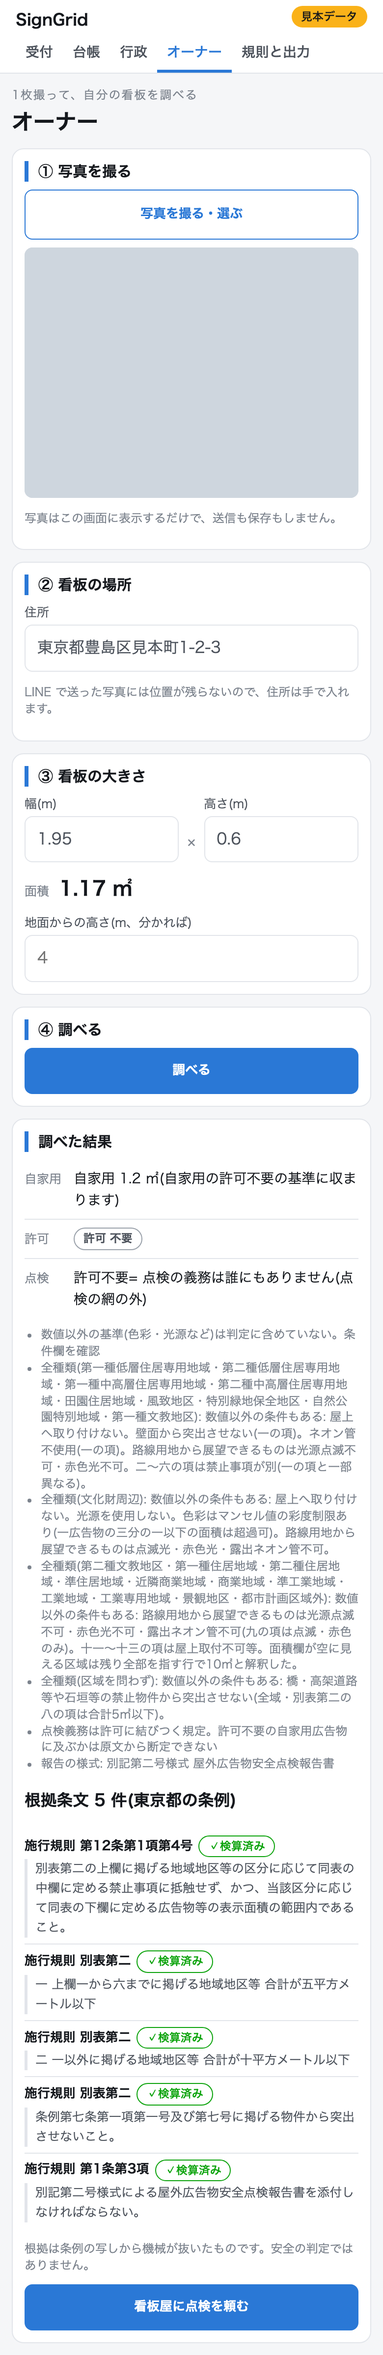
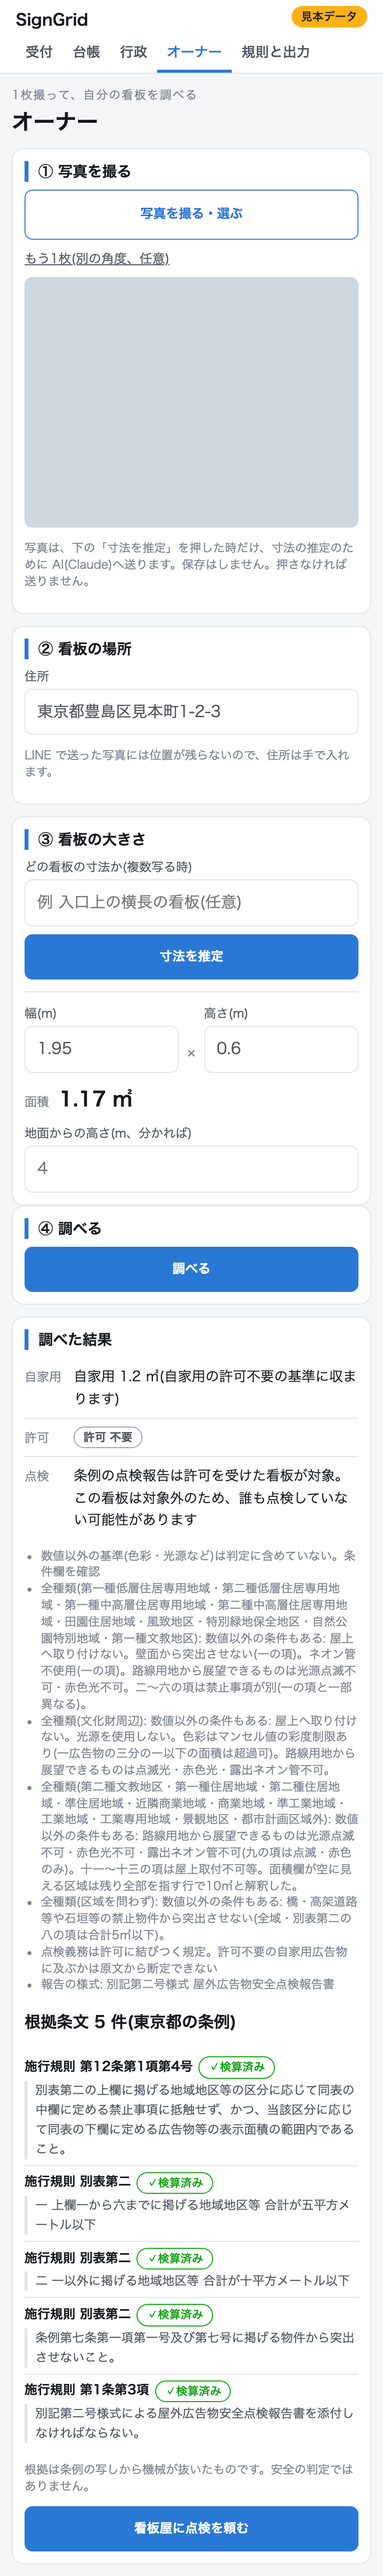
UI: owner screenshots after size estimate (sample fixed values, no API)

diff --git a/tools/web_screenshots.py b/tools/web_screenshots.py
@@ -3,7 +3,8 @@
   python3 tools/web_screenshots.py [--out docs/img] [--only ledger,karte,...]
 
 撮る画面: ledger(台帳)、karte(カルテ)、karte-legal(カルテの法規カード)、karte-edit(黄色のマスを直した後)、karte-confirmed(確定後)、
-rules(規則と出力)、intake(受付)、gov(行政。gov.make_sample の見本の束を入れる)、owner(オーナー。見本の寸法で「調べる」まで)。
+rules(規則と出力)、intake(受付)、gov(行政。gov.make_sample の見本の束を入れる)、owner(オーナー。見本の寸法で「調べる」まで)、
+owner-estimate(オーナーの「寸法を推定」後。推定役は固定値の見本で、API は呼ばない)。
 karte-edit 以降は台帳を書き換えるので、一時の台帳でだけ行う(見本の JSON は変わらない)。
 """
 from __future__ import annotations
@@ -16,12 +17,24 @@ from pathlib import Path
 
 sys.path.insert(0, str(Path(__file__).resolve().parents[1]))
 
+from kanban_karte.dim.estimator import DimEstimate  # noqa: E402
 from kanban_karte.gov import make_sample as gov_sample  # noqa: E402
 from kanban_karte.gov.batch_intake import intake as gov_intake  # noqa: E402
+from kanban_karte.web import api as web_api  # noqa: E402
 from kanban_karte.web.server import SAMPLE_JSON, App, make_server, seed_sample  # noqa: E402
 
 VIEWPORTS = {"pc": {"width": 1280, "height": 900}, "sp": {"width": 390, "height": 844}}
 SIGN = "demo-001"
+
+
+class SampleEstimator:
+    """スクリーンショット用の固定値(API は呼ばない)。実際の推定結果ではない。"""
+
+    def estimate(self, photos, target_name):
+        return DimEstimate(3200, 900, (2800, 3600), (800, 1000),
+                           [{"name": "ドア(出入口の扉)", "assumed_mm": 2000, "how": "入口の扉の高さを物差しにした"},
+                            {"name": "コンクリートブロック", "assumed_mm": 190, "how": "段数を数えた"}],
+                           False, "mid", "板面だけを測った(支柱・取付金具は含めない)。", "sample", {})
 
 
 def shoot(page, base: str, out: Path, tag: str, hash_: str, name: str, full=True, wait: str | None = None):
@@ -86,6 +99,17 @@ def run(page, base, out, tag, only):
         page.evaluate("window.scrollTo(0, 0)")
         page.screenshot(path=str(out / f"owner-{tag}.png"), full_page=True)
         print(out / f"owner-{tag}.png")
+    if want("owner-estimate"):
+        page.goto(f"{base}/#/owner")
+        page.wait_for_selector("main .owner")
+        page.set_input_files("#owner-photo", str(SAMPLE_JSON.parent / "photos" / "plain_a.png"))
+        page.fill("#owner-address", "東京都豊島区見本町1-2-3")
+        page.click("button:has-text('寸法を推定')")
+        page.wait_for_selector(".owner-estimate .cites li")
+        page.wait_for_timeout(600)
+        page.evaluate("window.scrollTo(0, 0)")
+        page.screenshot(path=str(out / f"owner-estimate-{tag}.png"), full_page=True)
+        print(out / f"owner-estimate-{tag}.png")
     if want("karte-edit") or want("karte-confirmed"):
         page.goto(f"{base}/#/sign/{SIGN}")
         page.wait_for_selector("main .karte")
@@ -125,6 +149,8 @@ def main(argv=None) -> int:
     out.mkdir(parents=True, exist_ok=True)
     from playwright.sync_api import sync_playwright
 
+    web_api.can_draft = lambda: True  # 見本の推定役を使うので、鍵が無くてもボタンを有効にして撮る
+
     with sync_playwright() as pw:
         browser = pw.chromium.launch()
         for tag, vp in VIEWPORTS.items():
@@ -132,7 +158,7 @@ def main(argv=None) -> int:
                 db = Path(td) / "l.sqlite"
                 seed_sample(db)
                 seed_extra(db, Path(td))
-                srv = make_server(App(db, SAMPLE_JSON.parent, sample=True), "127.0.0.1", 0)
+                srv = make_server(App(db, SAMPLE_JSON.parent, sample=True, estimator_factory=SampleEstimator), "127.0.0.1", 0)
                 base = f"http://127.0.0.1:{srv.server_address[1]}"
                 threading.Thread(target=srv.serve_forever, daemon=True).start()
                 ctx = browser.new_context(viewport=vp, device_scale_factor=2 if tag == "sp" else 1, locale="ja-JP",
